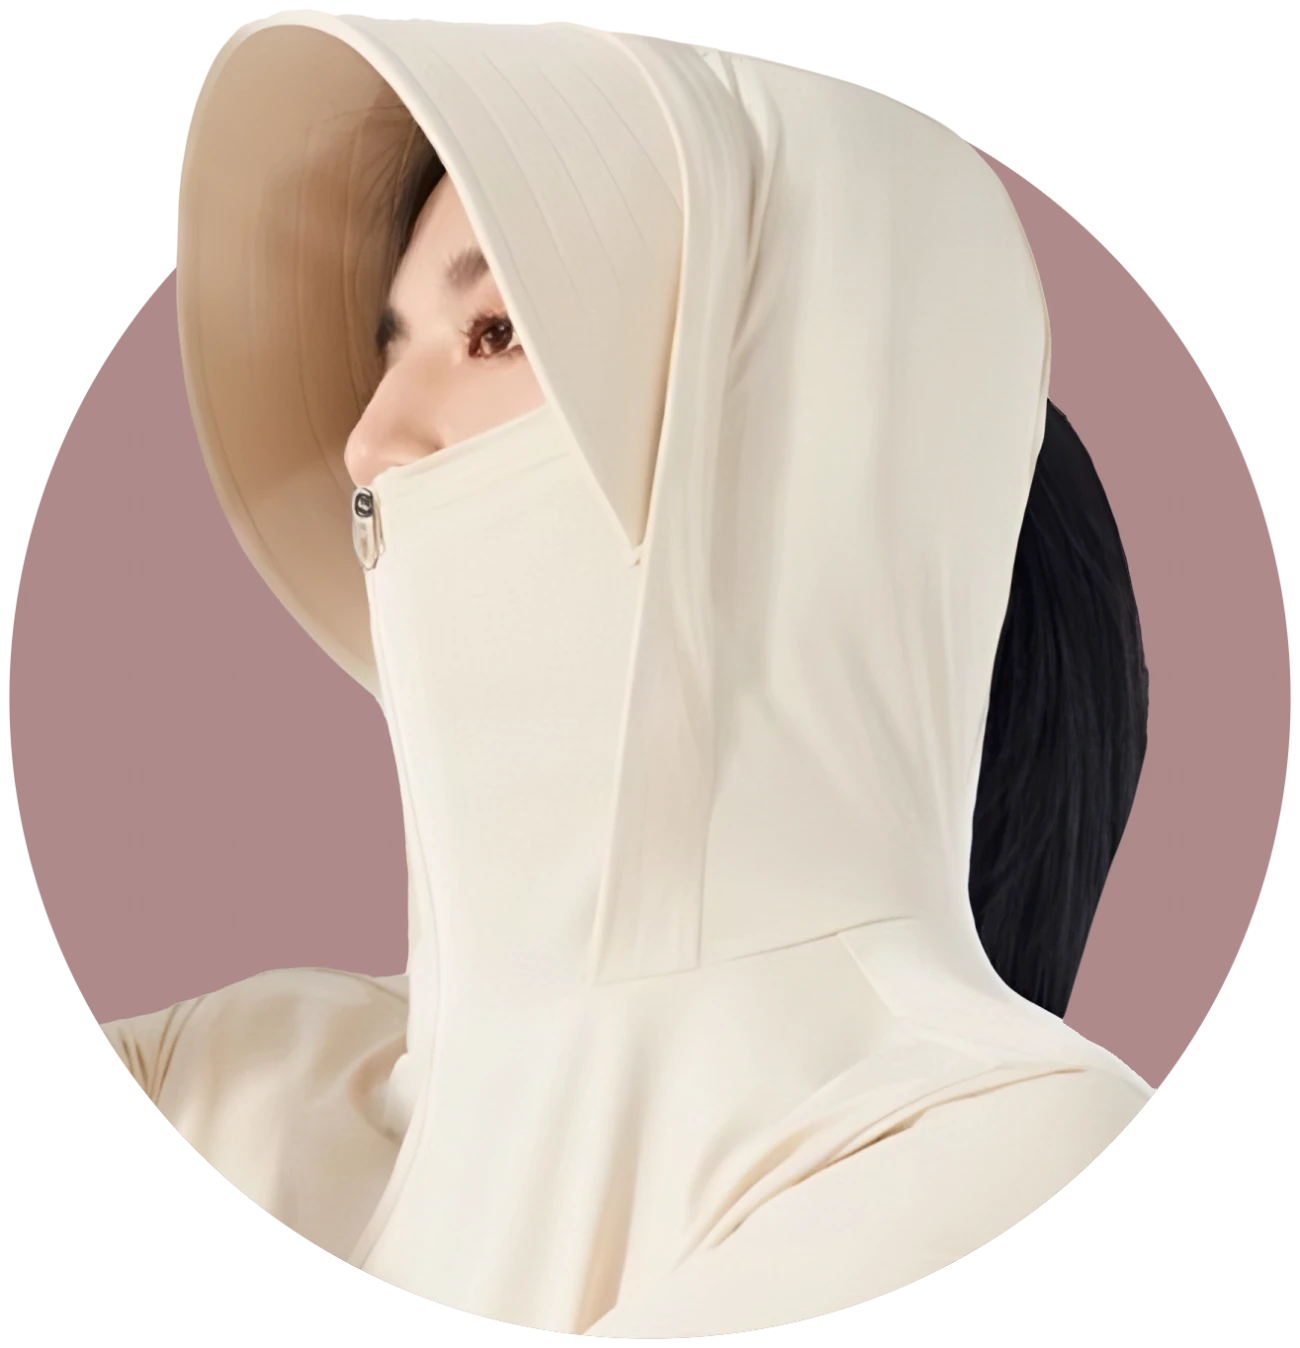
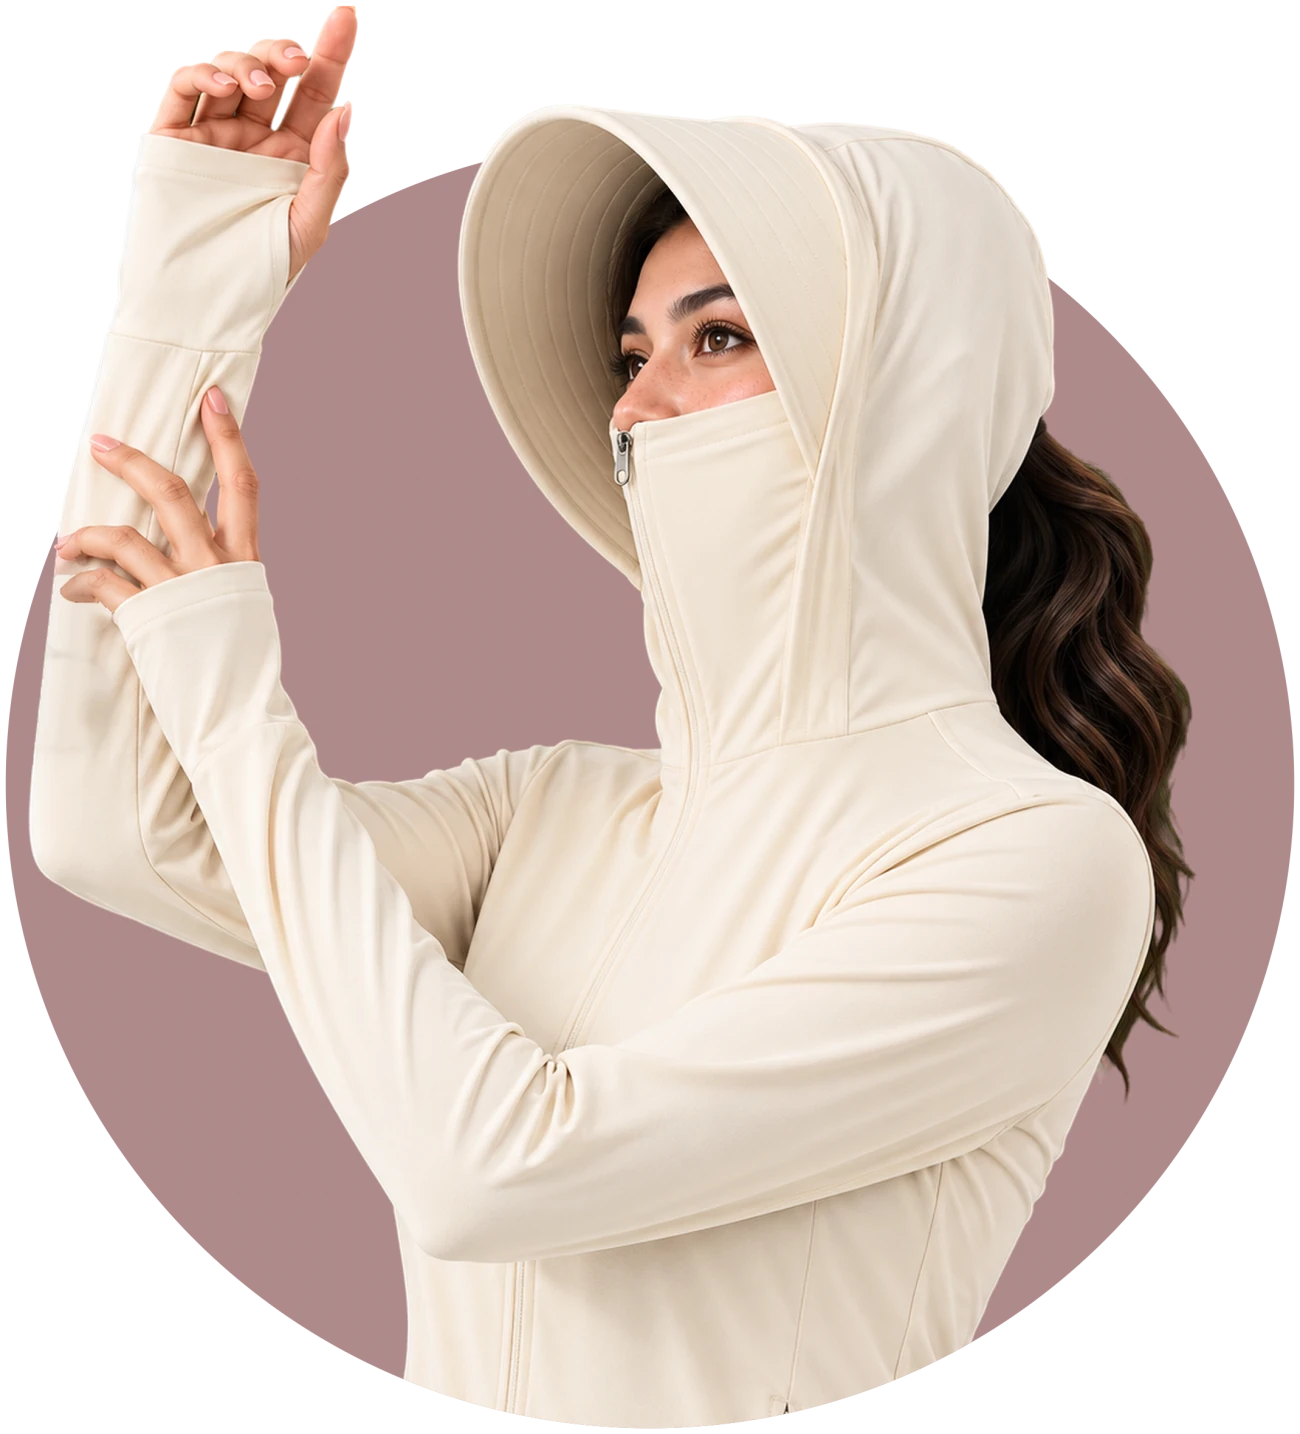
Use Paul's new green-screen photos for both people in version 2
- First image: the Colombian model in the light grey jacket, keyed from the
  green backdrop with closed-form matting; green taken out of edges and curls.
- Panel section: the same model in the light jacket with arms raised. The
  supplier's sun and text are removed; where "+" and a character lay on the
  sleeve and a fingertip, sleeve and finger are rebuilt. The raised fingertip,
  cut by the frame, is rounded off.
- Share image re-rendered; image sizes and descriptions updated.

diff --git a/v2/index.html b/v2/index.html
@@ -48,7 +48,7 @@
   </div>
   <figure class="hero-figure">
     <div class="hero-photo">
-      <img src="../img/worn-cutout.webp" width="1300" height="1559" alt="Mujer con la Chaqueta UPF de Nosadia en gris claro: levanta la visera con la mano, el pulgar pasa por la abertura del puño, el panel facial está cerrado hasta la nariz y la cola de caballo sale por detrás de la capucha">
+      <img src="../img/worn-cutout.webp" width="1300" height="1565" alt="Mujer con la Chaqueta UPF de Nosadia en gris claro: levanta la visera con la mano, el pulgar pasa por la abertura del puño, el panel facial está cerrado hasta la nariz y la cola de caballo, de cabello rizado, sale por detrás de la capucha">
     </div>
     <figcaption class="small">Imagen de referencia.</figcaption>
   </figure>
@@ -70,7 +70,7 @@
 
     <div class="split center panel-feature" id="panel">
       <figure class="stack-sm">
-        <img src="../img/panel-cutout.webp" width="1300" height="1348" loading="lazy" alt="Mujer de perfil con la Chaqueta UPF de Nosadia en color claro: visera ancha, panel facial cerrado hasta la nariz con cremallera y la cola de caballo detrás de la capucha">
+        <img src="../img/panel-cutout.webp" width="1300" height="1434" loading="lazy" alt="Mujer con la Chaqueta UPF de Nosadia en color claro y los brazos en alto: visera ancha, panel facial cerrado hasta la nariz con cremallera, puños largos sobre el dorso de la mano y la cola de caballo detrás de la capucha">
         <figcaption class="small"><a href="../#panel">Ver esta parte en la versión 1</a></figcaption>
       </figure>
       <div class="stack">
